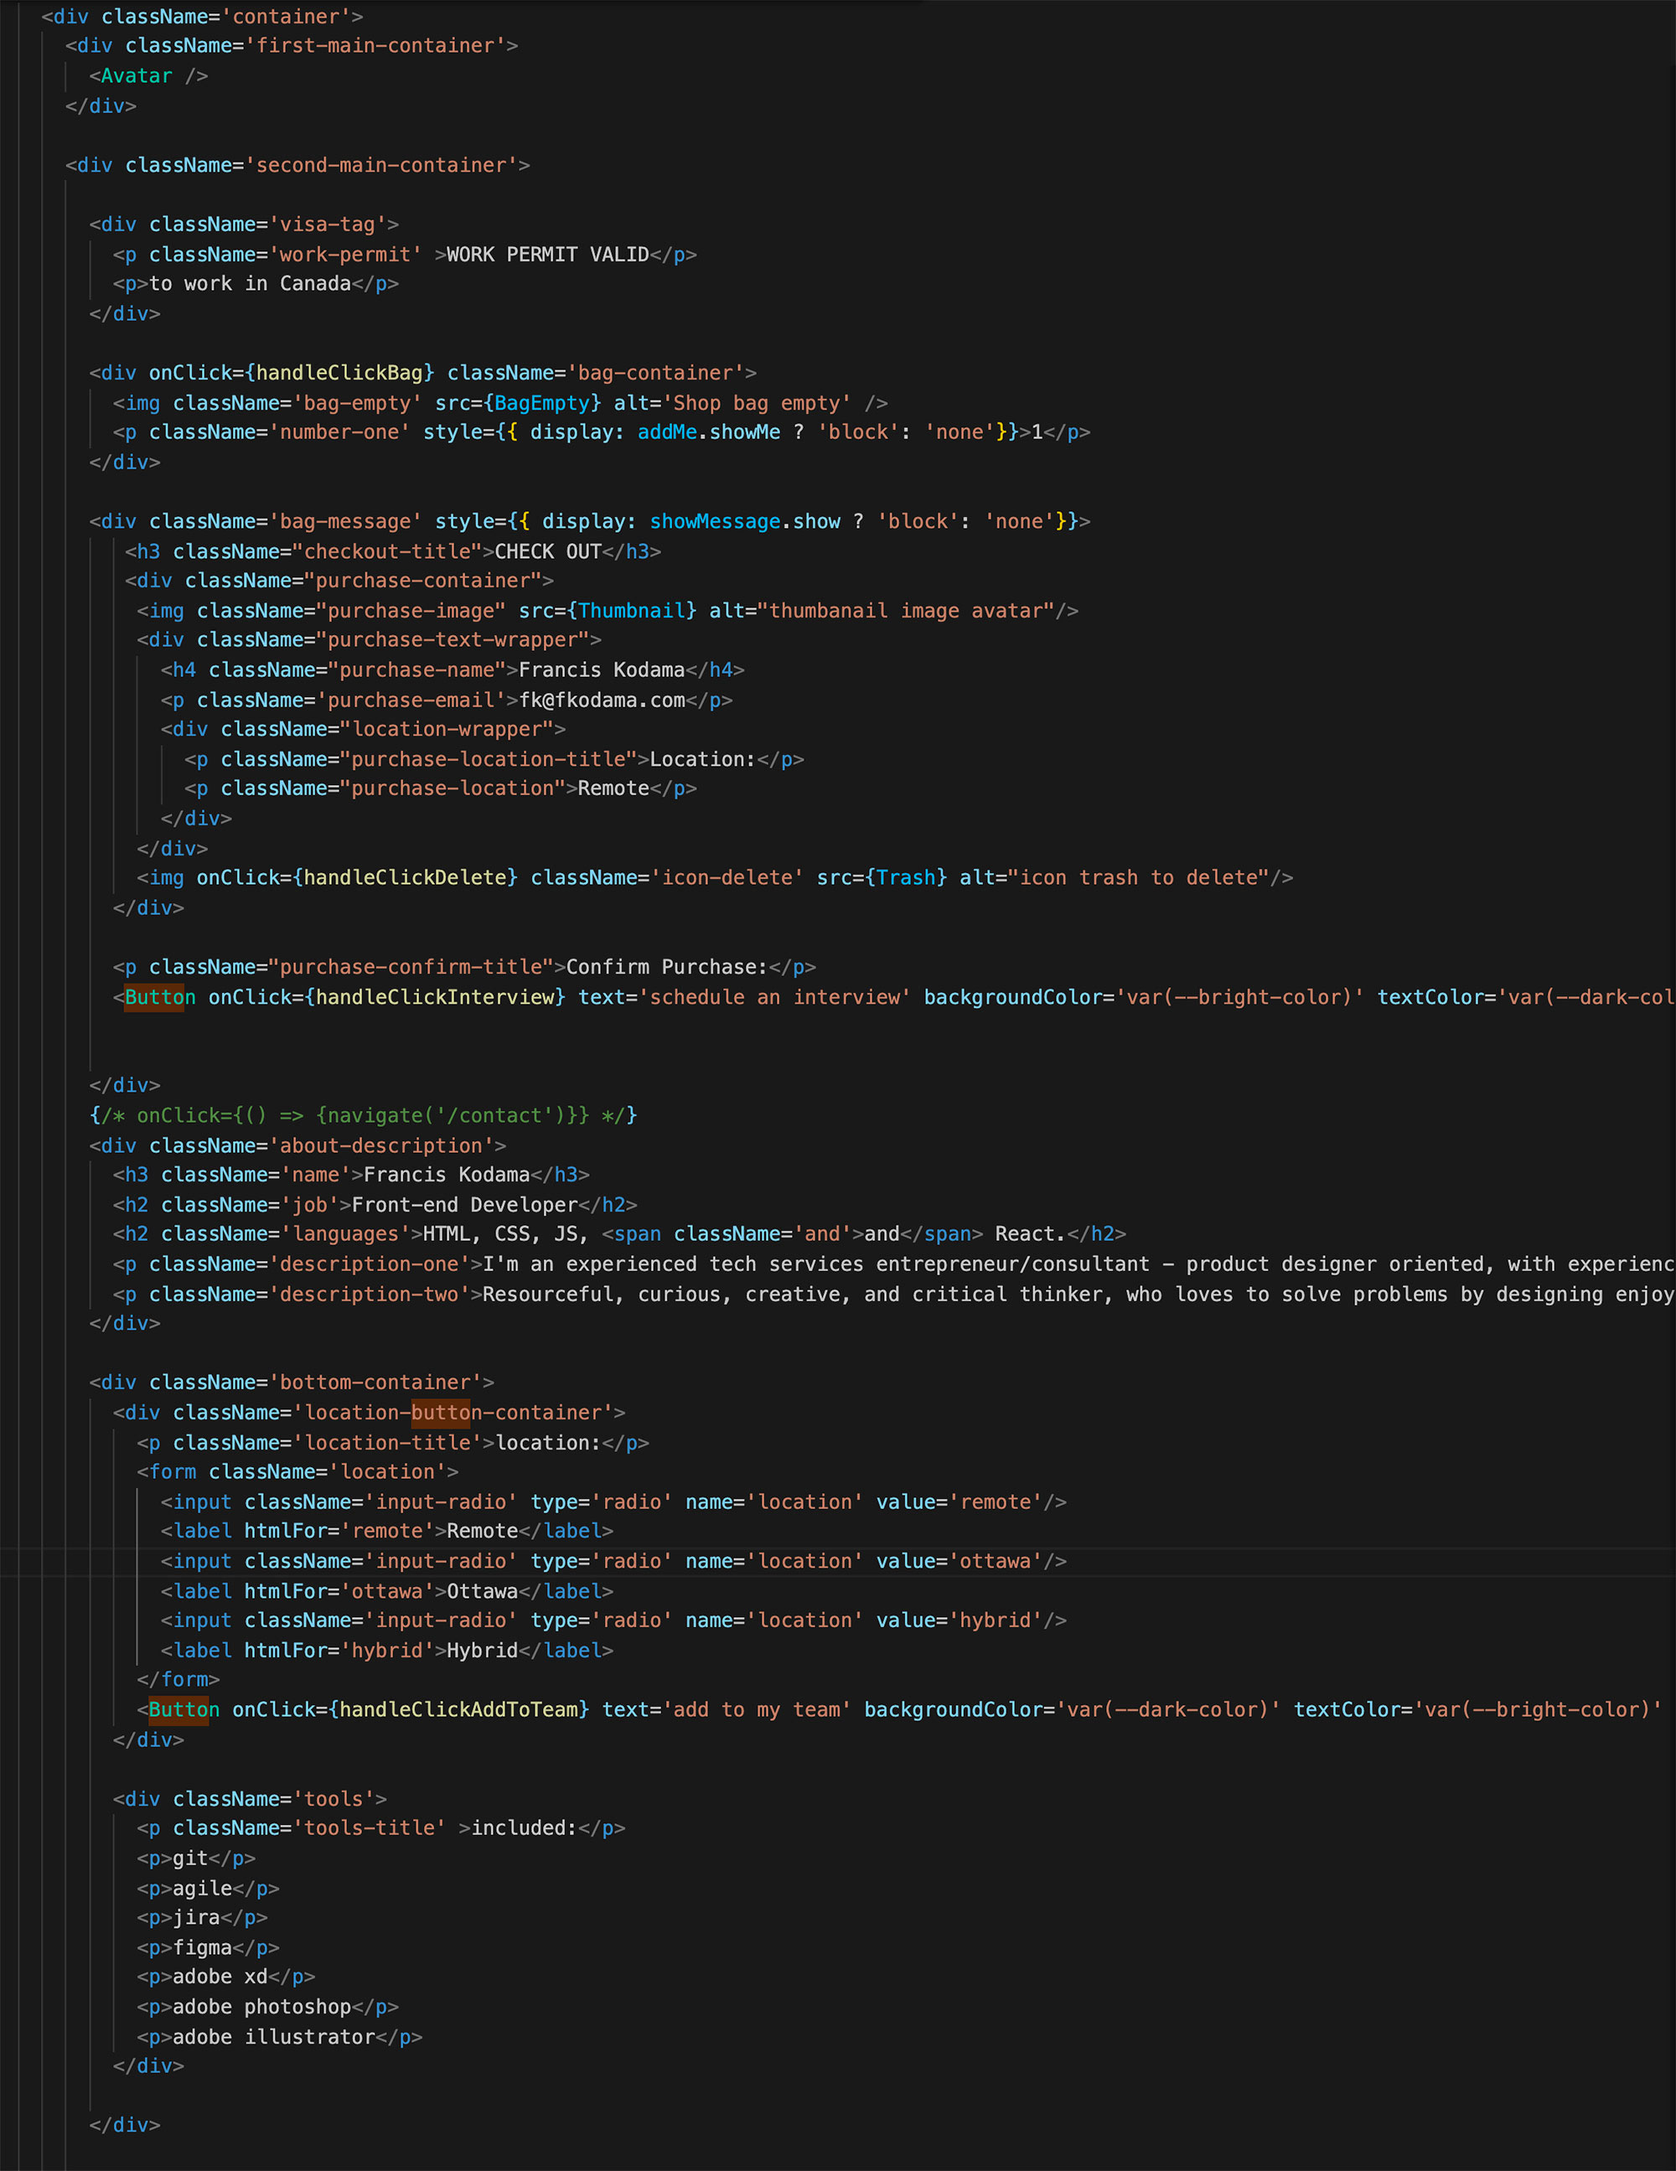
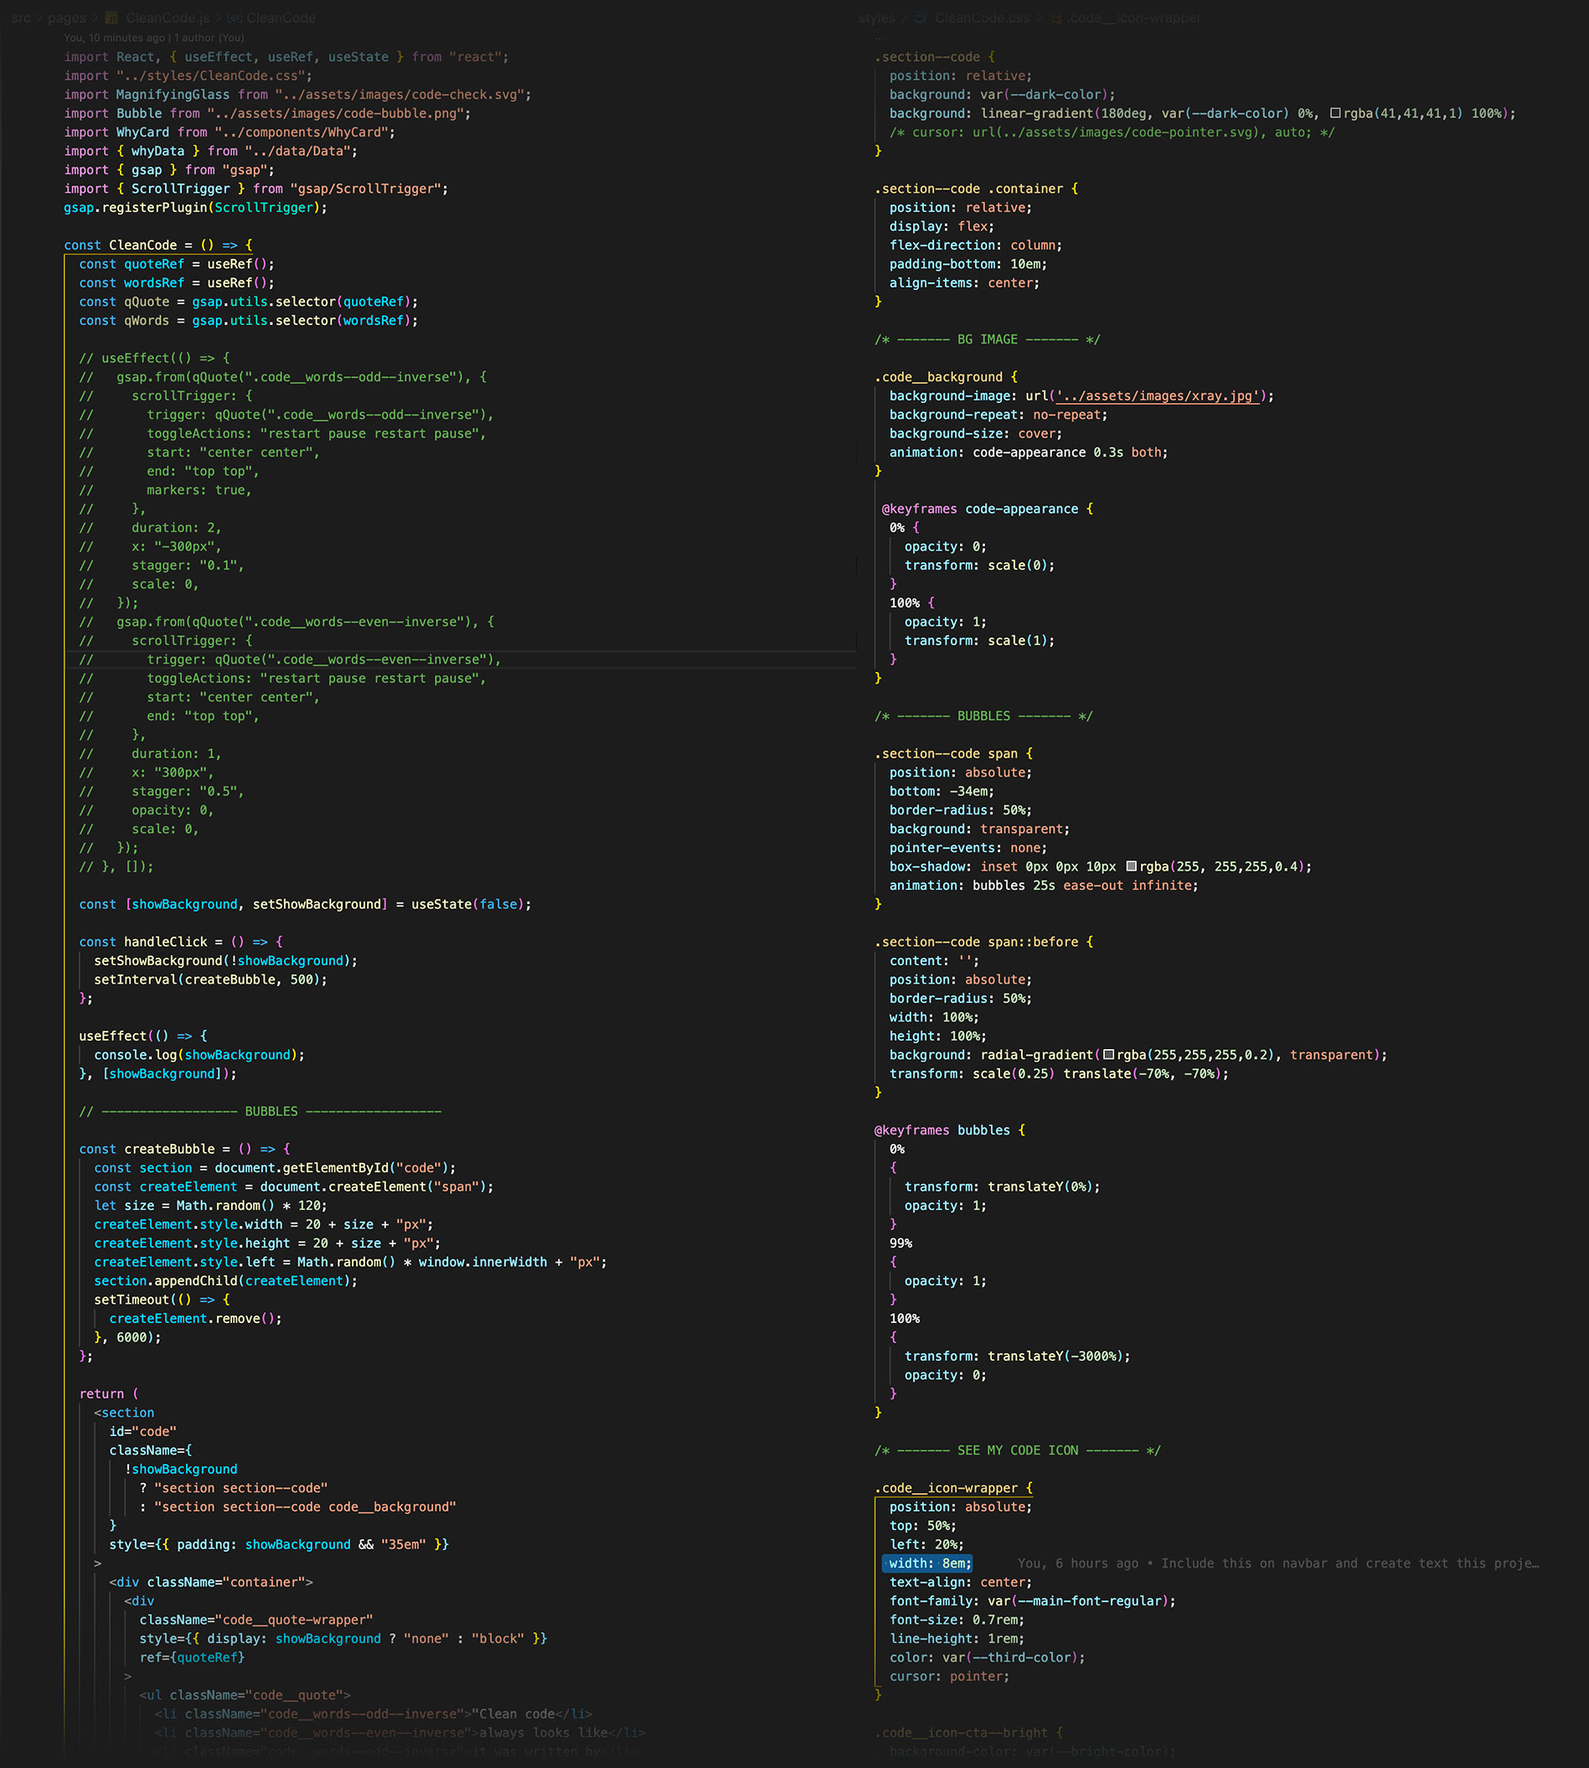
Fix clean code page and made some test

diff --git a/src/data/Data.js b/src/data/Data.js
@@ -179,9 +179,10 @@ export const projects = [
       "As a product strategist, I began the project by thinking about how to create a valuable portfolio that would benefit employers looking for talent with my skills.",
     backText_titleThree: "what",
     backText_textThree:
-      "From many sketches and planning to design the project on Figma and coding afterward. In each step, the portfolio was built intentionally gathering new knowledge and new understandings.",
-    backText_titleFour: "",
-    backText_textFour: "",
+      "From many sketches, designing the project on Figma, to coding afterward, in each step, the portfolio was built intentionally gathering new knowledge and new understandings.",
+    backText_titleFour: "tech",
+    backText_textFour:
+      "100% React-based, JSX, CSS, SASS, and HTML. Some tools used: Git, VisualCode, Figma, Adobe Photoshop, and Adobe Premiere.",
     // backText_textFour:"100% React-based, JSX, CSS, SASS, and HTML. Besides that, some tools such as Git, VisualCode, Figma, Adobe Photoshop, and Adobe Premiere.",
     backgroundColor: "#FC9651",
     visitIcon: false,
@@ -199,10 +200,10 @@ export const projects = [
     frontText: "Here's a tutorial project I took to a whole new level.",
     backText_titleOne: "why",
     backText_textOne:
-      "This was my first relevant project in Vanilla Javascript. After the couse, I built some projects following tutorials, until I got some fluency with the language.",
+      "After some courses, I focused on building projects following tutorials, until I got some fluency with the language. This was my first relevant project in Vanilla Javascript.",
     backText_titleTwo: "how",
     backText_textTwo:
-      "I followed a tutorial by Ania Kubow, but the design was really simple and there was no buttons on the screen for mobile user to play. That's was my oppportunitty to customize my application.",
+      "For this project, Ania Kubow's tutorial was very helpful. However, the design was really simple, and there were no buttons on the screen for mobile users to play. That was my opportunity to customize it myself.",
     backText_titleThree: "what",
     backText_textThree:
       "Using Javascript and CSS, I redesigned the entire game, adding buttons to start and play on mobile devices, and adding some sounds to create a better user experience.",
@@ -228,10 +229,10 @@ export const projects = [
       "Customizing template websites was already something I knew how to do. Now, it was time to build a website from scratch.",
     backText_titleTwo: "how",
     backText_textTwo:
-      "I found a client, received a briefing, and used my experience in digital marketing to design and code the entire website.",
+      "In response to a client's briefing, I used my experience in digital marketing to design and code the entire website.",
     backText_titleThree: "what",
     backText_textThree:
-      "The key features of the project were Flexbox, Display Grid, and Responsiveness in general.",
+      "The key features of the project were Flexbox, Display Grid, some simple animations, and Responsiveness in general.",
     backText_titleFour: "",
     backText_textFour: "",
     backgroundColor: "#BA88F9",
@@ -249,12 +250,15 @@ export const projects = [
     image: require("../assets/images/project-space.jpg"),
     frontText: "",
     backText_titleOne: "why",
-    backText_textOne: "",
+    backText_textOne:
+      "As I studied product management, agile, and some other things, I have not been coding for some time. I want to make my big return with a fun project to allow me to catch up with the syntax.",
     backText_titleTwo: "how",
-    backText_textTwo: "",
+    backText_textTwo:
+      "That's why I decided to build this project. This tutorial again from Ania Kubow (mentioned on the Pac Man project) uses a great deal of Vanilla Javascript logic. Therefore, it was a good place to restart.",
     backText_titleThree: "what",
-    backText_textThree: "",
-    backText_titleFour: "tech",
+    backText_textThree:
+      "As I did with Pac Man, I challenged myself to create new buttons and redesign the entire video game.",
+    backText_titleFour: "",
     backText_textFour: "",
     backgroundColor: "#70D1D5",
     visitIcon: true,

diff --git a/src/styles/CleanCode.css b/src/styles/CleanCode.css
@@ -1,25 +1,29 @@
 .section--code {
   position: relative;
+  display: flex;
+  flex-direction: column;
   background: var(--dark-color);
   background: linear-gradient(180deg, var(--dark-color) 0%, rgba(41,41,41,1) 100%); 
-  /* cursor: url(../assets/images/code-pointer.svg), auto; */
+  border: 5px solid orange;
 }
 
 .section--code .container {
   position: relative;
-  display: flex;
-  flex-direction: column;
   padding-bottom: 10em;
   align-items: center;
+  border: 5px solid green;
+  width: 100%;
 }
  
 /* ------- BG IMAGE ------- */
 
 .code__background {
-  background-image: url('../assets/images/xray.jpg');
+  display: flex;
+  flex-direction: column;
+  background-image: url('../assets/images/xray2.jpg');
   background-repeat: no-repeat;
-  background-size: cover;
-  animation: code-appearance 2s both;
+  object-fit: cover;
+  animation: code-appearance 0.3s both;
 }
 
  @keyframes code-appearance {
@@ -29,6 +33,12 @@
   100% {
     opacity: 1;
   }
+}
+
+.degrade {
+  width: 100%;
+  height: 200px;
+  background: linear-gradient(180deg, rgba(255,0,0,0), rgba(255,0,0,1));
 }
 
 /* ------- BUBBLES ------- */
@@ -74,7 +84,7 @@
 
 .code__icon-wrapper {
   position: absolute;
-  top: 50%;
+  top: 35%;
   left: 20%;
   width: 8em;
   text-align: center;
@@ -93,35 +103,6 @@
 
 .code__icon {
   width: 35px;
-  animation: icon-code-shake 2s ease 0s infinite alternate forwards;
-}
-
-@keyframes icon-code-shake {
-	0%,
-	100% {
-		transform: translateX(0%);
-		transform-origin: 50% 50%;
-	}
-
-	15% {
-		transform: translateX(-30px) rotate(-6deg);
-	}
-
-	30% {
-		transform: translateX(15px) rotate(6deg);
-	}
-
-	45% {
-		transform: translateX(-15px) rotate(-3.6deg);
-	}
-
-	60% {
-		transform: translateX(9px) rotate(2.4deg);
-	}
-
-	75% {
-		transform: translateX(-6px) rotate(-1.2deg);
-	}
 }
 
 /* ------- BUBBLES ------- */
@@ -134,9 +115,9 @@
 
 .code__quote-wrapper {
   align-self: flex-end;
-  margin-right: 2em;
   margin-top: 10em;
   margin-bottom: 10em;
+  border: 2px solid yellow;
 }
 
 .code__quote,
@@ -149,7 +130,11 @@
 }
 
 .code__words-wrapper {
+  padding-top: 3em;
   line-height: 2rem; 
+  align-self: flex-end;
+  border: 2px solid yellow;
+
 }
 
 .code__quote-wrapper,
@@ -159,7 +144,6 @@
 
 .code__words-wrapper {
   margin-top: 2em;
-  margin-right: 1.5em;
 }
 
 /* ------- QUOTE TRANSFORM ------- */
@@ -211,7 +195,6 @@
 @media only screen and (width > 48em) {
   .code__quote-wrapper {
     align-self: flex-end;
-    margin-right: 8em;
     margin-bottom: 5em;
   }
   
@@ -222,8 +205,7 @@
   }
 
   .code__words-wrapper {
-    margin-top: 5em;
-    margin-right: 0;
+    padding-top: 9em;
   }
 
   .code__robert {
@@ -238,34 +220,36 @@
     margin-left: 5em;
   }
 
-
+  .code__icon-wrapper {
+    top: 40%;
+  }
 }
 
 @media only screen and (width > 62em) {  
 }
 
 @media only screen and (width > 75em) {
-  .code__quote-wrapper {
-    margin-right: 17em;
-  }
-
   .code__quote,
   .code__words-wrapper {
     font-size: 3em;
     line-height: 3.5rem;
   }
+  
+  .code__words-wrapper {
+    padding-top: 12em;
+  } 
 
   .code__robert {
-    font-size: 2rem;
-    margin-top: 2em;
-    line-height: 3rem;
+    font-size: 1.5rem;
+    line-height: 2rem;
   }
 
-  .code__icon-wrapper {
-    top: 40%;
+  .code_author {
+    font-size: 1.2rem;
+    margin-top: 0.5em;
   }
 
   .code__icon {
-    width: 50px;
+    width: 40px;
   }
 }

diff --git a/src/pages/CleanCode.js b/src/pages/CleanCode.js
@@ -47,6 +47,7 @@ const CleanCode = () => {
 
   const handleClick = () => {
     setShowBackground(!showBackground);
+    // setInterval(createBubble, 500);
   };
 
   useEffect(() => {
@@ -67,7 +68,6 @@ const CleanCode = () => {
       createElement.remove();
     }, 6000);
   };
-  setInterval(createBubble, 500);
 
   return (
     <section
@@ -79,6 +79,8 @@ const CleanCode = () => {
       }
       style={{ padding: showBackground && "35em" }}
     >
+      {showBackground && <div className="degrade"></div>}
+
       <div className="container">
         <div
           className="code__quote-wrapper"
@@ -155,6 +157,9 @@ const CleanCode = () => {
           left={whyData.code.left}
         />
       </div>
+      {showBackground && (
+        <div className="degrade" style={{ transform: "rotate(180deg)" }}></div>
+      )}
     </section>
   );
 };

diff --git a/src/pages/Projects.js b/src/pages/Projects.js
@@ -8,7 +8,9 @@ const Projects = () => {
   return (
     <section className="section section--projects" id="projects">
       <div className="container">
-        <h2 className="projects__title">selected projects</h2>
+        <h2 className="section-title section-title--projects">
+          selected projects
+        </h2>
         <div className="projects">
           {projects.map((project) => (
             <Card key={project.id} project={project} />

diff --git a/src/pages/Contact.js b/src/pages/Contact.js
@@ -96,7 +96,7 @@ const Contact = () => {
   return (
     <section className="section section--contact" id="contact">
       <div className="container">
-        <h1 className="main-title">hello generator</h1>
+        <h1 className="section-title">hello generator</h1>
         <p className="sub-title">Let me help you drop me a line! ;)</p>
 
         <DragDropContext

diff --git a/src/styles/Projects.css b/src/styles/Projects.css
@@ -13,13 +13,8 @@
   align-items: center;
 }
 
-.projects__title {
+.section-title--projects {
   text-align: center;
-  font-family: var(--main-font-regular);
-  font-size: 1.5rem;
-  text-transform: uppercase;
-  margin-top: 3em;
-  margin-bottom: 1em;
 }
 
 /* ====================================

diff --git a/src/App.css b/src/App.css
@@ -71,11 +71,11 @@ button {
   text-transform: uppercase;
 }
 
-.main-title {
-  margin-top: 5em;
+.section-title {
   font-family: var(--main-font-regular);
-  font-size: 1.5rem;
-  text-transform: uppercase;
+  font-size: 3rem;
+  text-transform: capitalize;
+  margin-top: 3em;
 }
 
 input,

diff --git a/src/styles/About.css b/src/styles/About.css
@@ -112,10 +112,10 @@
 
 @keyframes number-one {
   0% {
-    transform: scale(50);
+    transform: scale(5);
     opacity: 0;
-    left: -10em;
-    top: 40em;
+    left: -25em;
+    top: 50em;
   }
   100% {
     transform: scale(1);
